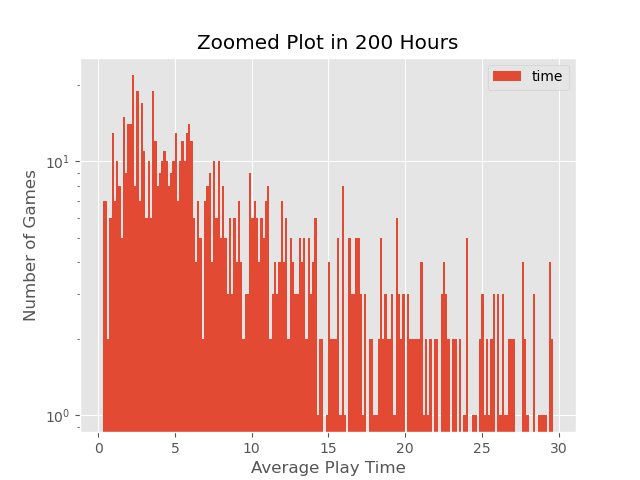
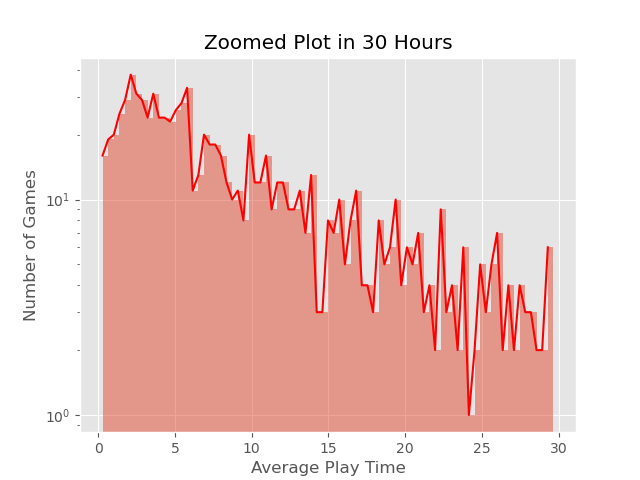
Added plot and code change

diff --git a/cleaning_playtime.py b/cleaning_playtime.py
@@ -34,12 +34,13 @@ def clean_playtime_data(df):
     plt.ylabel('Number of Games')
     plt.savefig('outputs/AvgPlaytimeOutlier.png')
 
-    # Focus on the first 200 hrs
+    # Focus on the first 30 hrs
     plt.clf()
     zoomed_df = df_averaged[df_averaged['time'] < 30]
-    zoomed_df.plot(kind='hist', bins=200, logy=True)
+    counts, bins, patches = plt.hist(zoomed_df['time'], bins=80, log=True, alpha=0.5)
+    plt.plot(bins[:-1], counts, color='red')
     plt.xlabel('Average Play Time')
     plt.ylabel('Number of Games')
-    plt.title('Zoomed Plot in 200 Hours')
+    plt.title('Zoomed Plot in 30 Hours')
     plt.subplots_adjust(bottom=0.1)
     plt.savefig('outputs/ZoomedAvgPlaytimeOutlier.png')
